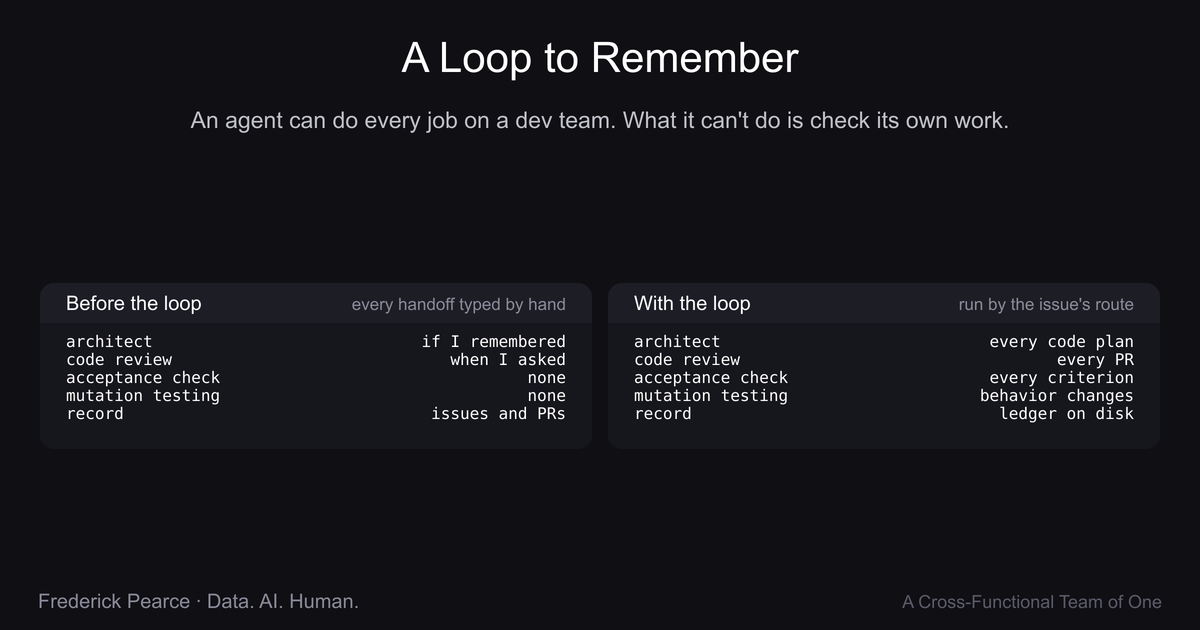
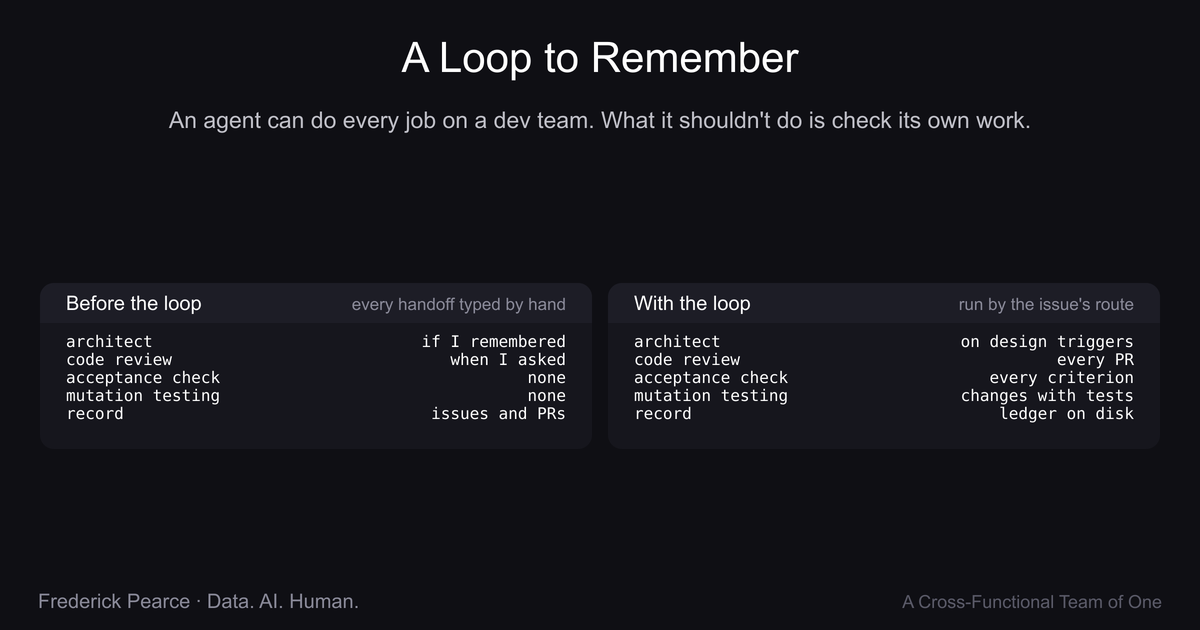
post: thesis reads "shouldn't" check its own work; correct two card rows
Changes the thesis line and the card subhead from "can't ... effectively"
to "shouldn't". Corrects the card's architect and mutation-testing rows,
which overstated when those run.

Claude-Session: https://claude.ai/code/session_01UttrUGWY4jZzEMtvyDVFdc

Changed region(s): [[0.1233, 0.181, 0.8633, 0.2111], [0.8017, 0.5127, 0.9558, 0.573], [0.8017, 0.6032, 0.9558, 0.6635]]

diff --git a/posts/2026-10-21-a-loop-to-remember.md b/posts/2026-10-21-a-loop-to-remember.md
@@ -37,7 +37,7 @@ Now take the best model you can imagine. It still has to get requirements clarif
 
 ## A cross-functional team of one
 
-An agent can do every job on a dev team. What it can't do is check its own work effectively.
+An agent can do every job on a dev team. What it shouldn't do is check its own work.
 
 That is the thesis, and it is why I titled the series "A Cross-Functional Team of One." A coding agent really is cross-functional. It plans, designs, implements and tests. Generalization means a lot of ground to cover, and when the same mind that did the work also checks it, it tends to confirm its own thinking.
 
